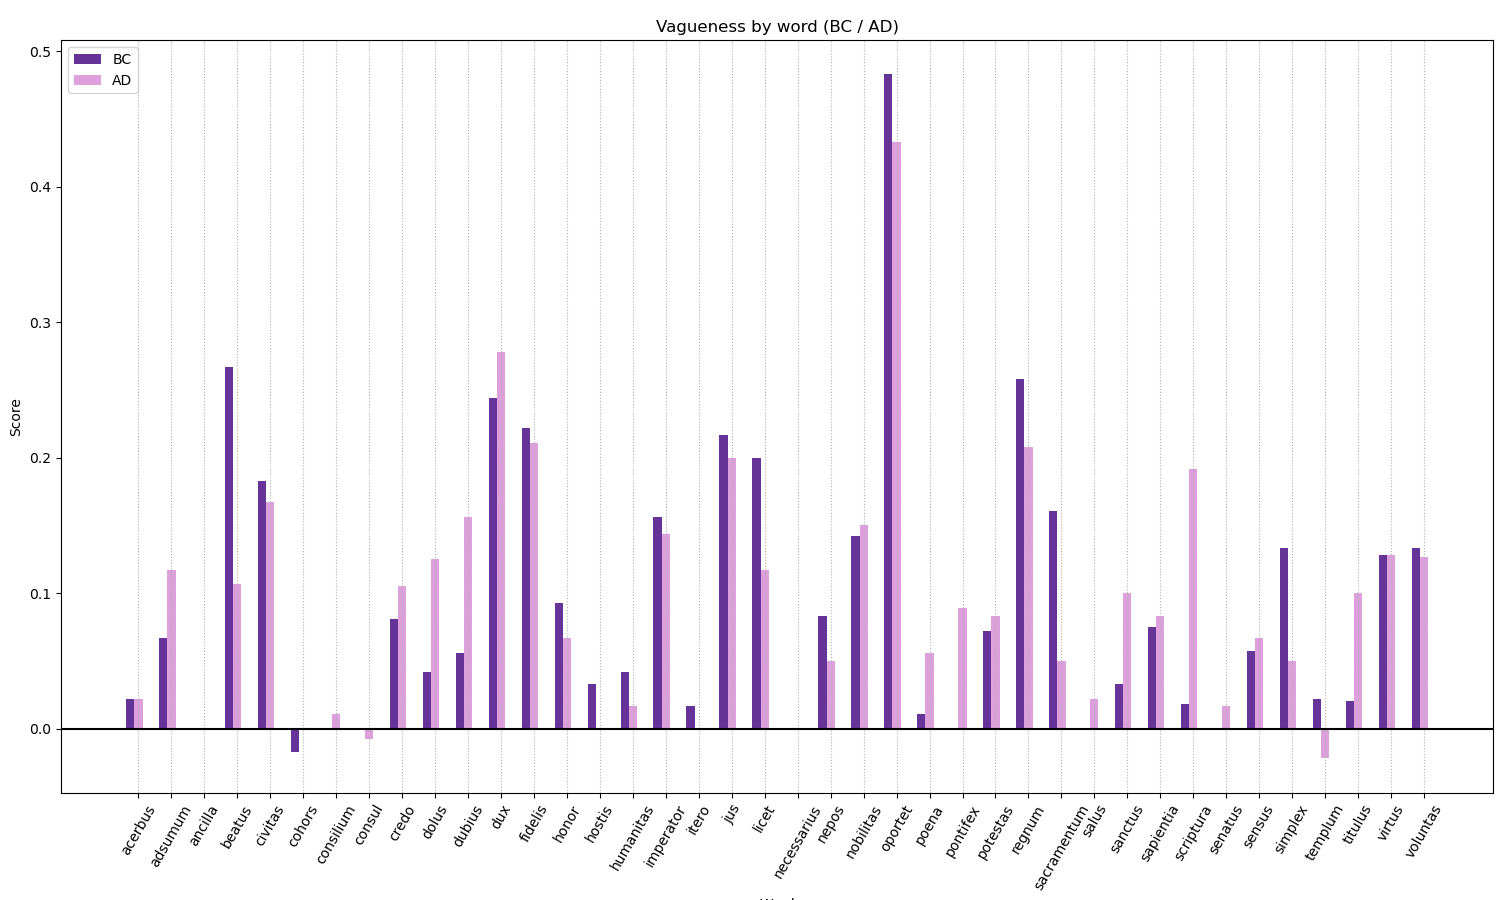
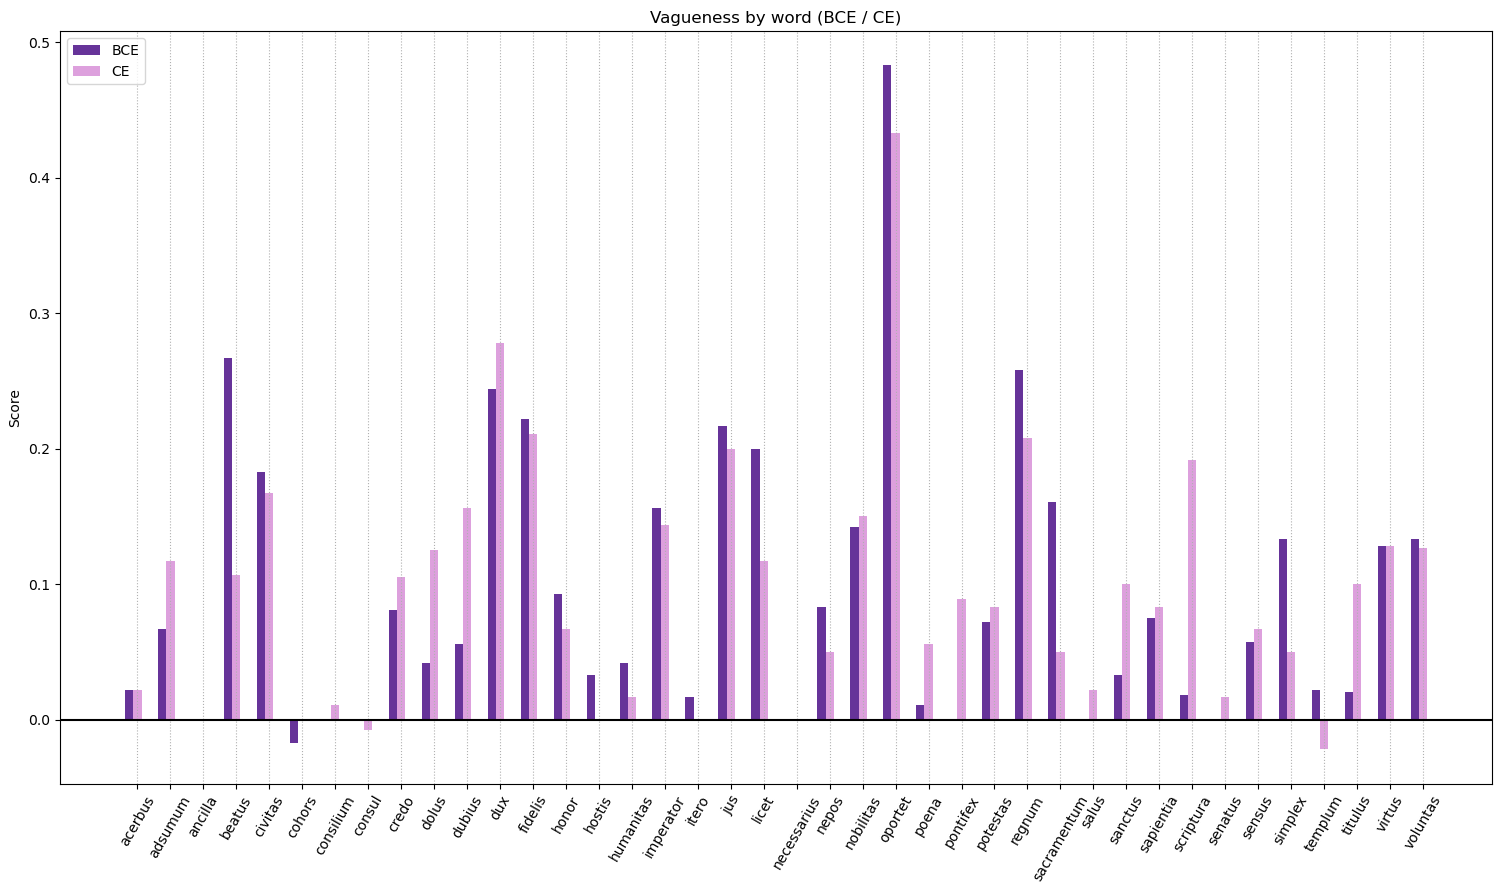
changed labels to BCE/CE

diff --git a/vagueness/bar_plot_chron.py b/vagueness/bar_plot_chron.py
@@ -3,7 +3,7 @@ import numpy as np
 import matplotlib.pyplot as plt
 import os
 
-inputf = pd.read_csv('rations_by_word_chron.tsv', sep="\t", header=None)
+inputf = pd.read_csv('ratios_by_word_chron.tsv', sep="\t", header=None)
 columns = []
 for column in inputf:
     columns.append(inputf[column].tolist())
@@ -21,8 +21,8 @@ fig = plt.figure()
 ax = fig.add_subplot(111)
 
 #definition of both series
-plt.bar(pos1, bc, color="rebeccapurple", label="BC", width = bar_width)
-plt.bar(pos2, ad, color="plum", label="AD", width = bar_width)
+plt.bar(pos1, bc, color="rebeccapurple", label="BCE", width = bar_width)
+plt.bar(pos2, ad, color="plum", label="CE", width = bar_width)
 
 
 #grid lines
@@ -30,7 +30,7 @@ ax.xaxis.grid(True, linestyle=':')
 ymajor = 0.0
 ax.axhline(ymajor, color="black")
 
-ax.set_title('Vagueness by word (BC / AD)')
+ax.set_title('Vagueness by word (BCE / CE)')
 ax.set_xlabel('Word')
 ax.set_ylabel('Score')
 
